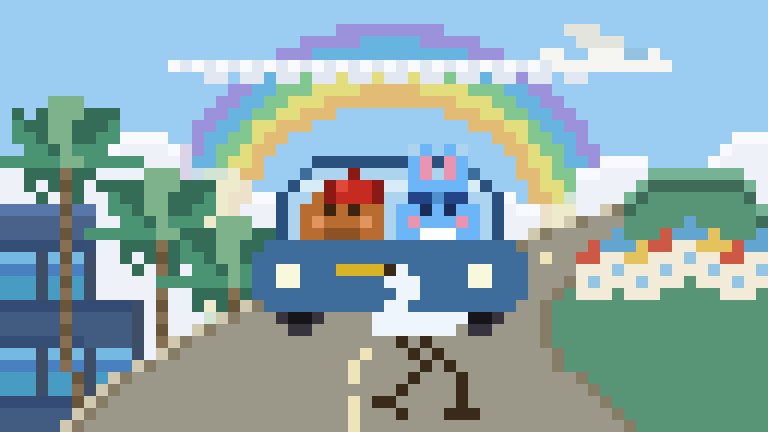
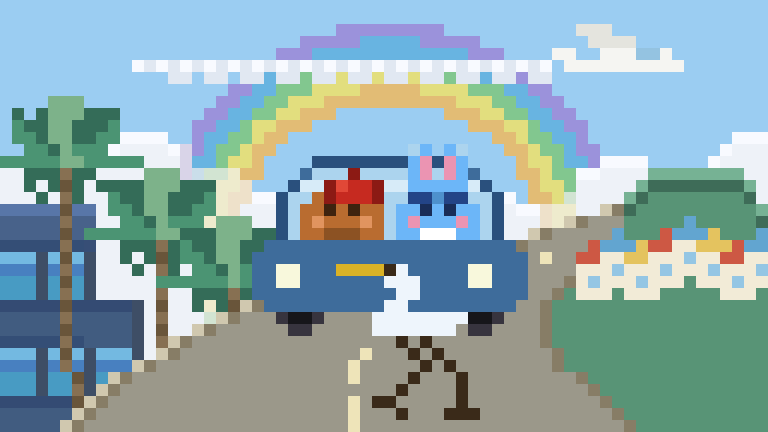
rainbow: 飞机右移1格尾迹不动+天色回d3b437c

Changed region(s): [[0.6875, 0.0602, 0.9062, 0.2106], [0.1562, 0.1204, 0.25, 0.2106]]

diff --git a/pixel_rainbow.py b/pixel_rainbow.py
@@ -460,28 +460,28 @@ PL_BODY = (245, 245, 242); PL_WING = (228, 228, 222); PL_WIN = (148, 195, 225)
 # 尾迹（飞机左侧往左渐消）
 TRAIL   = (248, 250, 255)
 TRAIL_D = (225, 232, 242)
-for _ti, _tx in enumerate(range(14, 49)):
+for _ti, _tx in enumerate(range(11, 46)):
     _tc = TRAIL if _ti % 2 == 0 else TRAIL_D
     sp(_tx, 5, _tc)
-for _ti, _tx in enumerate(range(16, 49)):
+for _ti, _tx in enumerate(range(13, 46)):
     if _ti % 3 != 0:
         sp(_tx, 6, TRAIL_D)
-# 机身 x=49~53 y=4~5
-wrow(4, 49, 53, PL_BODY)
-wrow(5, 48, 53, PL_BODY)
+# 机身 x=50~54 y=4~5
+wrow(4, 50, 54, PL_BODY)
+wrow(5, 49, 54, PL_BODY)
 # 机头
-sp(54, 4, PL_BODY); sp(54, 5, PL_BODY); sp(55, 5, PL_BODY)
+sp(55, 4, PL_BODY); sp(55, 5, PL_BODY); sp(56, 5, PL_BODY)
 # 尾翼
-sp(48, 3, PL_WING)
+sp(49, 3, PL_WING)
 # 上翼
-wrow(3, 48, 51, PL_WING)
+wrow(3, 49, 52, PL_WING)
 # 下翼
-wrow(2, 47, 49, PL_WING)
+wrow(2, 48, 50, PL_WING)
 # 窗
-sp(52, 4, PL_WIN); sp(53, 4, PL_WIN)
+sp(53, 4, PL_WIN); sp(54, 4, PL_WIN)
 # 尾气
-wrow(5, 46, 47, PL_BODY)
-wrow(4, 45, 46, PL_BODY)
+wrow(5, 47, 48, PL_BODY)
+wrow(4, 46, 47, PL_BODY)
 # ── Great Egret 大白鹭（镜像，朝左）──
 EGRET    = (238, 245, 252)
 EGRET_BK = ( 58,  42,  25)
